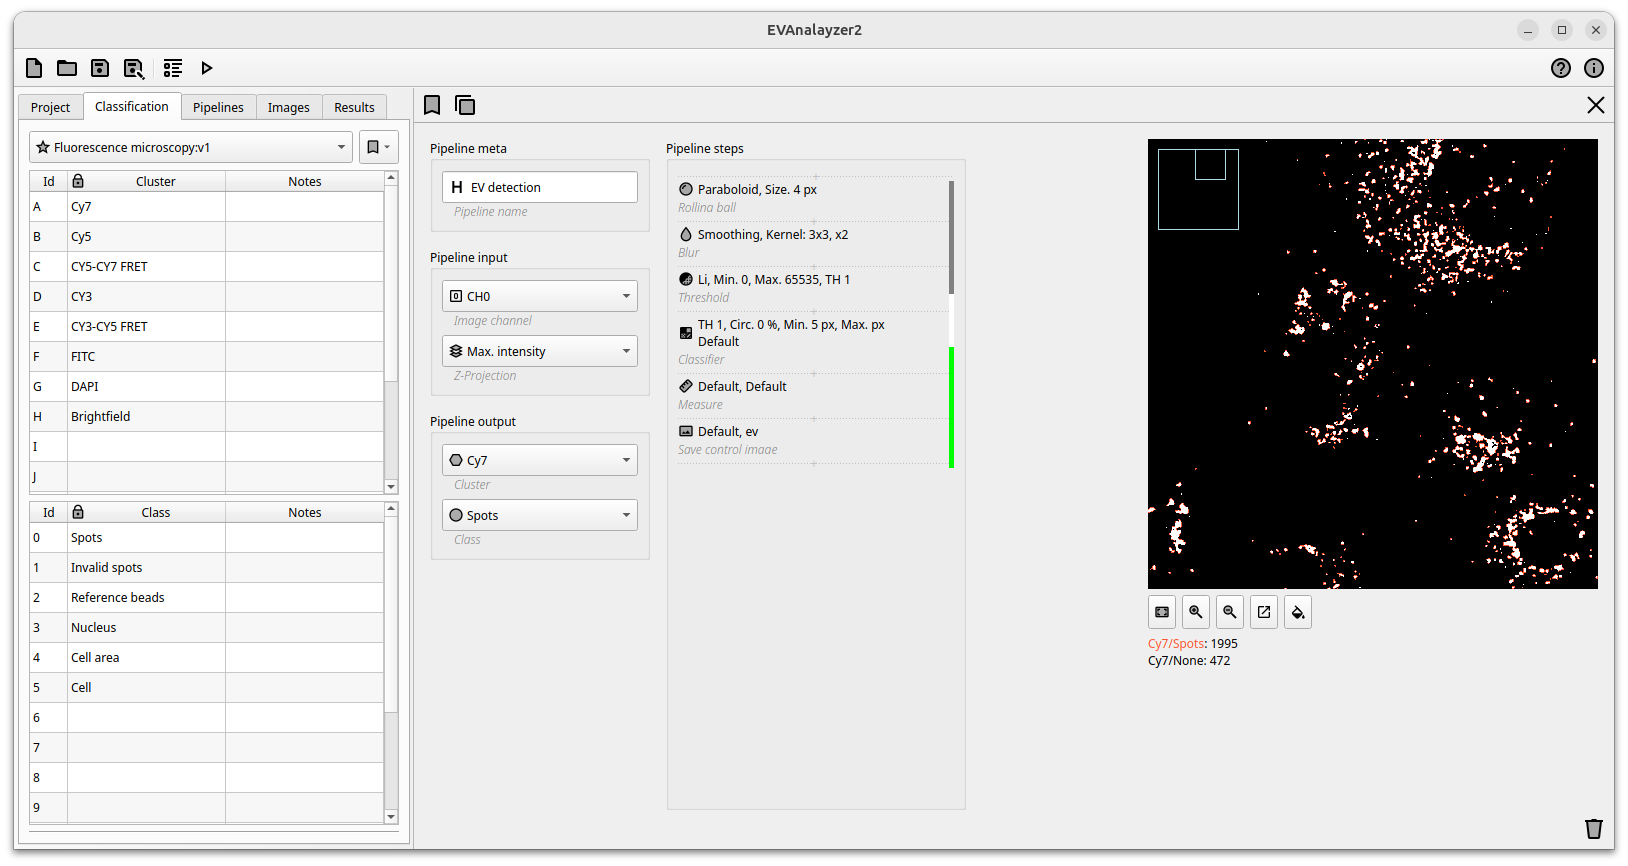
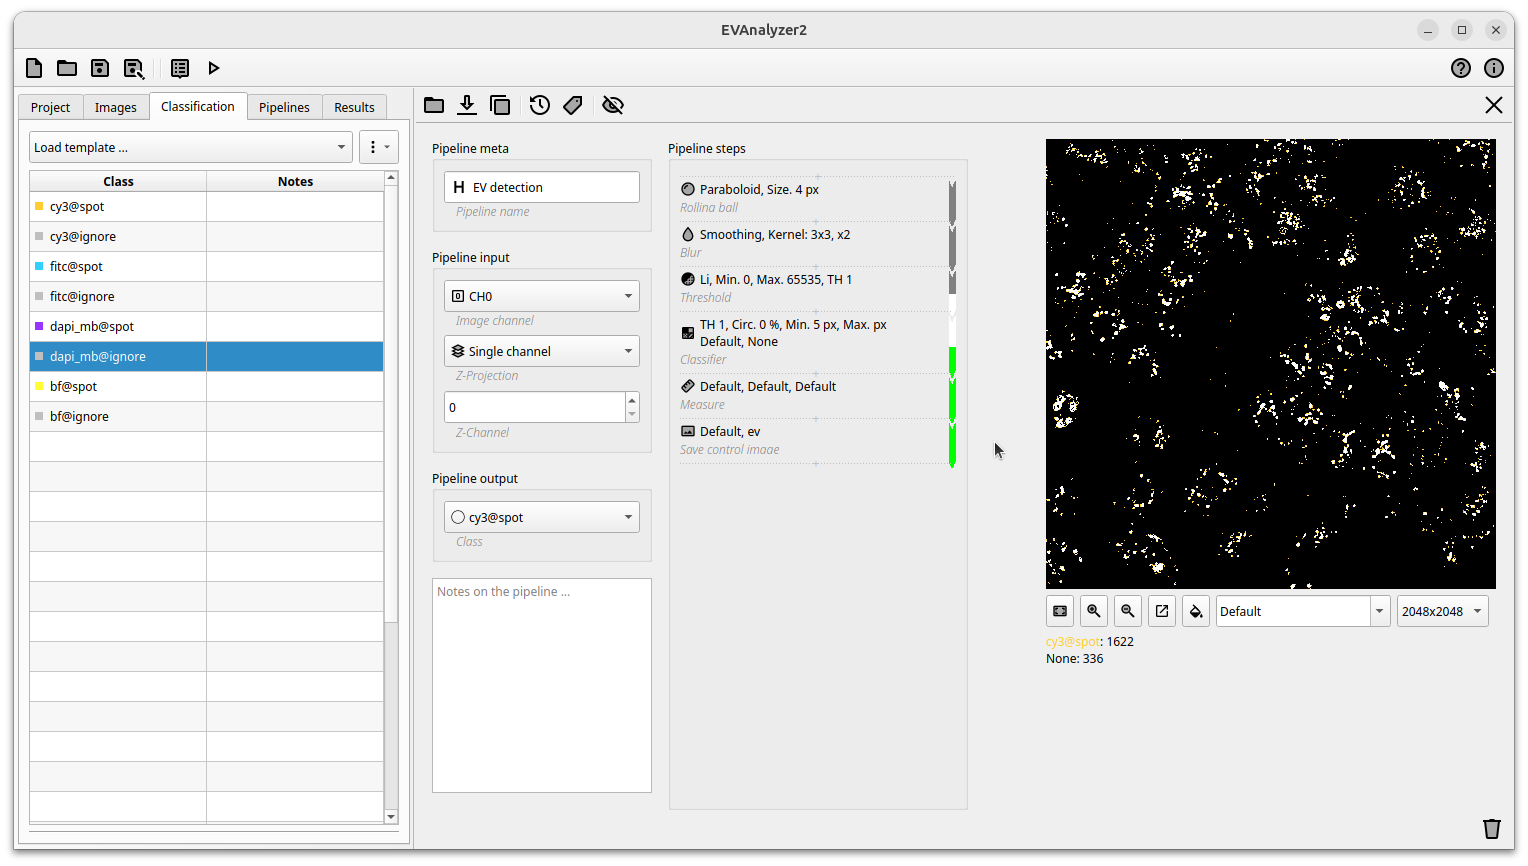
chore: Described pipeline history

diff --git a/conf.py b/conf.py
@@ -184,5 +184,13 @@ myst_substitutions = {
     "icon_save": '<img src="../images/icons/icons8-save-96.png" class="inline-icon" />',
     "tool_save": '<img src="../images/icons/icons8-save-96.png" class="tool-icon" />',
 
+    "history": '<img src="../images/icons/icons8-history-96.png />',
+    "icon_history": '<img src="../images/icons/icons8-history-96.png" class="inline-icon" />',
+    "tool_history": '<img src="../images/icons/icons8-history-96.png" class="tool-icon" />',
+
+    "tag": '<img src="../images/icons/icons8-tag-96.png />',
+    "icon_tag": '<img src="../images/icons/icons8-tag-96.png" class="inline-icon" />',
+    "tool_tag": '<img src="../images/icons/icons8-tag-96.png" class="tool-icon" />',
+
     "max_classes": "65535",
 }

diff --git a/docs/fundamentals/pipelines.md b/docs/fundamentals/pipelines.md
@@ -86,5 +86,11 @@ A typical pipeline flow might look like this:
 4. Object postprocessing and filter commands can be used to do further processing or filtering on the detected objects.
 
 
+(pipeline-history)=
+## Pipeline history
 
+Using the {{icon_history}} button to open the pipeline history.
+The history list shows the last 64 changes taken in this pipeline.
+The History tab allows you to go back in time and restore a setting by double-clicking on an entry in the history.
 
+The tag {{icon_tag}} button can be used to mark the actual settings within the history, which allows an easy restore of these settings.
